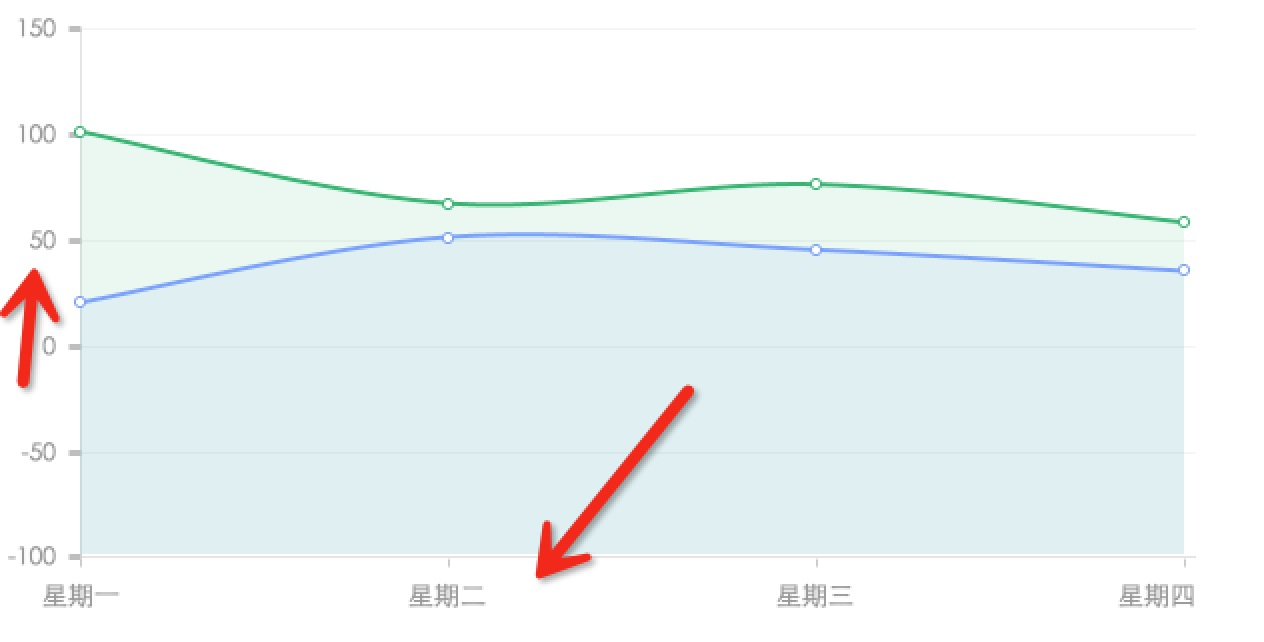
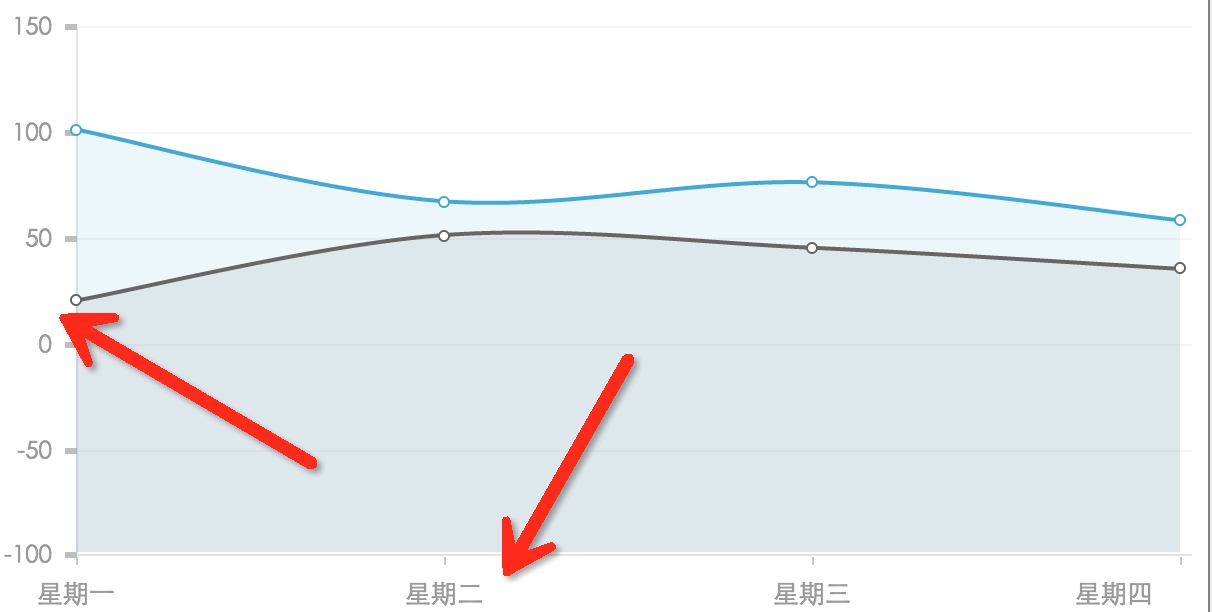
line demo

diff --git a/example.md b/example.md
@@ -32,42 +32,42 @@ title:  chart demos
     </dl>
     <dl class="chart">
         <dt>
-        <img src="">
+        <img src="./assets/chart/line/xAxis_rotate.png">
         </dt>
         <dd>
             <h5>
-            基础折线图
+            xAxis旋转
             </h5>
             <span>
-            全部默认配置
+            xAxis上面的文字比较长，比如2015-05-12这样的日期的时候，建议采用xAxis的文案旋转
             </span>
         </dd>
     </dl>
 
     <dl class="chart">
         <dt>
-        <img src="">
+        <img src="./assets/chart/line/anchor.gif">
         </dt>
         <dd>
             <h5>
-            基础折线图
+            附带瞄准器的折线图
             </h5>
             <span>
-            全部默认配置
+            
             </span>
         </dd>
     </dl>
 
     <dl class="chart">
         <dt>
-        <img src="">
+        <img src="./assets/chart/line/corner.gif">
         </dt>
         <dd>
             <h5>
-            基础折线图
+            折线转角才有圆点
             </h5>
             <span>
-            全部默认配置
+            在折线上面，只有转角的时候才有圆点，注意，如果在smooth为true的时候，不生效
             </span>
         </dd>
     </dl>
@@ -75,14 +75,14 @@ title:  chart demos
 
     <dl class="chart">
         <dt>
-        <img src="">
+        <img src="./assets/chart/line/custom_xyAxis_datasection.png">
         </dt>
         <dd>
             <h5>
-            基础折线图
+            xAxis和yAxis自定义
             </h5>
             <span>
-            全部默认配置
+            可以传入自定义的dataSection来覆盖
             </span>
         </dd>
     </dl>
@@ -92,14 +92,14 @@ title:  chart demos
 
     <dl class="chart">
         <dt>
-        <img src="">
+        <img src="./assets/chart/line/fill_gradient.png">
         </dt>
         <dd>
             <h5>
-            基础折线图
+            渐变的填充区域
             </h5>
             <span>
-            全部默认配置
+        
             </span>
         </dd>
     </dl>
